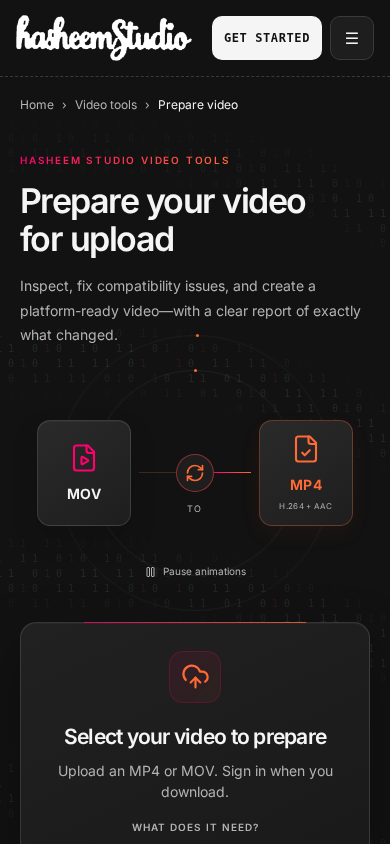
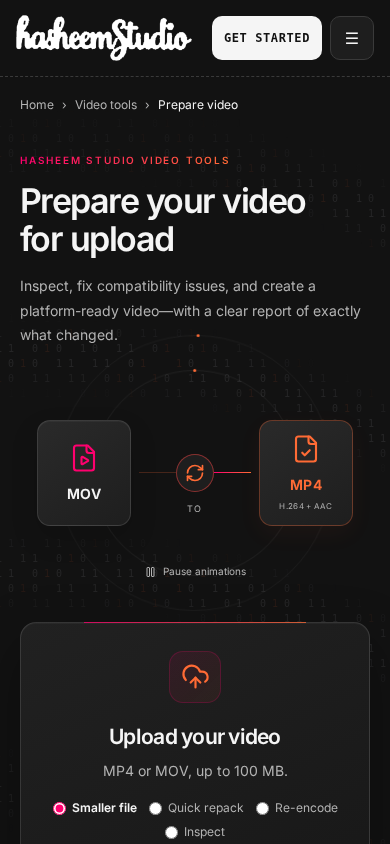
feat(web): simpler upload card, pause pill straddles card, orbiting light, two-tile result
Claude-Session: https://claude.ai/code/session_01KMRJAcnX8NKK61hskr7mn6

Changed region(s): [[0.1231, 0.8626, 0.8615, 1.0], [0.7692, 0.955, 0.8615, 0.9858]]

diff --git a/apps/web/src/components/ConversionHero.css b/apps/web/src/components/ConversionHero.css
@@ -68,7 +68,7 @@
 .hero-upload__resume-discard { text-decoration: underline; font-weight: 600; }
 
 /* Processing card — same surface/border/radius tokens as the idle card above. */
-.hero-upload__processing { text-align: left; }
+.hero-upload__processing { display: flex; flex-direction: column; text-align: left; }
 .hero-upload__file { display: flex; align-items: center; gap: 12px; }
 .hero-upload__file-icon { display: grid; place-items: center; width: 40px; height: 40px; flex-shrink: 0; border-radius: 10px; border: 1px solid rgb(255 0 110 / 20%); background: linear-gradient(135deg, rgb(255 0 110 / 9%), rgb(255 107 53 / 6%)); color: var(--hero-orange); }
 .hero-upload__file-meta { min-width: 0; }
@@ -81,7 +81,7 @@
 .hero-upload__log { margin-top: 14px; max-height: 108px; overflow-y: auto; padding: 10px 12px; border-radius: var(--radius-sm); border: 1px solid rgb(255 255 255 / 8%); background: #101010; font-family: ui-monospace, SFMono-Regular, Menlo, monospace; font-size: 11px; line-height: 1.7; text-align: left; color: rgb(255 255 255 / 62%); }
 .hero-upload__log-line { white-space: pre-wrap; word-break: break-word; }
 .hero-upload__log-marker { margin-right: 6px; color: var(--hero-orange); }
-.hero-upload__cancel { display: inline-flex; gap: 6px; align-items: center; justify-content: center; min-height: 40px; min-width: 120px; margin: 16px auto 0; padding: 0 18px; border-radius: 8px; border: 1px solid var(--color-border); font-size: 13px; font-weight: 600; color: var(--color-foreground); transition: background-color .15s; }
+.hero-upload__cancel { display: inline-flex; gap: 6px; align-items: center; justify-content: center; min-height: 40px; min-width: 120px; align-self: center; margin: 18px auto 0; padding: 0 18px; border-radius: 8px; border: 1px solid var(--color-border); font-size: 13px; font-weight: 600; color: var(--color-foreground); transition: background-color .15s; }
 .hero-upload__cancel:hover:not(:disabled) { background: var(--color-surface-2); }
 .hero-upload__cancel:disabled { opacity: .7; cursor: default; }
 .hero-upload__spin { animation: hs-spin 1s linear infinite; }
@@ -106,10 +106,11 @@
    centred directly above the card with real breathing room. ───────────────────────────────────────────── */
 .conversion-hero[data-focus] .conversion-hero__stage { grid-template-columns: minmax(0, 1fr); justify-items: center; gap: 6px; padding: 8px 0 30px; animation: hs-focus-in .45s ease-out both; }
 .conversion-hero[data-focus] .conversion-scene { height: 236px; }
-.conversion-hero[data-focus] .conversion-scene__pause { position: static; transform: none; margin: 14px auto 0; width: fit-content; padding: 6px 14px; border-radius: 999px; border: 1px solid rgb(255 255 255 / 12%); background: rgb(255 255 255 / 3%); }
+.conversion-hero[data-focus] .conversion-scene__pause { position: relative; left: auto; bottom: auto; z-index: 3; transform: none; margin: 10px auto 0; width: fit-content; min-height: 30px; padding: 6px 14px; border-radius: 999px; border: 1px solid rgb(255 255 255 / 14%); background: #1c1c1c; }
 .conversion-hero[data-focus] .conversion-scene { height: auto; display: flex; flex-direction: column; align-items: center; }
-.conversion-hero[data-focus] .conversion-scene__visual { position: relative; inset: auto; width: 100%; height: 236px; }
-.conversion-hero[data-focus] .hero-upload { margin-top: 0; }
+.conversion-hero[data-focus] .conversion-scene__visual { position: relative; inset: auto; width: 100%; height: 190px; }
+.conversion-hero[data-focus] .conversion-hero__stage { padding-bottom: 0; }
+.conversion-hero[data-focus] .hero-upload { margin-top: -15px; padding-top: 44px; }
 @keyframes hs-focus-in { from { opacity: .4; transform: translateY(-8px); } to { opacity: 1; transform: none; } }
 
 /* ── Stage-driven scene: the illustration reflects the real pipeline stage (data-phase). ─────────────── */
@@ -162,7 +163,8 @@
   .conversion-scene__ring--outer { width: 276px; height: 276px; }
   .conversion-scene__ring--inner { width: 206px; height: 206px; }
   .hero-upload { margin-top: -56px; padding: 28px 20px 22px; }
-  .conversion-hero[data-focus] .hero-upload { margin-top: 0; }
+  .conversion-hero[data-focus] .conversion-hero__stage { padding-bottom: 0; }
+.conversion-hero[data-focus] .hero-upload { margin-top: -15px; padding-top: 44px; }
   .conversion-hero[data-focus] .conversion-scene__visual { height: 218px; }
   .hero-upload h2 { font-size: 21px; }
   .conversion-hero { margin-bottom: 42px; }
@@ -182,3 +184,14 @@
   .conversion-hero[data-focus] .conversion-scene__pause { display: none; }
   .conversion-hero[data-focus] .conversion-hero__stage { animation: none; }
 }
+
+/* A small light that travels around the card while work is in progress. */
+@property --hs-angle { syntax: "<angle>"; inherits: false; initial-value: 0deg; }
+.hero-upload[data-busy]::after { content: ""; position: absolute; inset: -1px; border-radius: inherit; padding: 1.5px; pointer-events: none;
+  background: conic-gradient(from var(--hs-angle), transparent 0 84%, rgb(255 0 110 / 0%) 84%, #ff006e 94%, #ff8a4c 99%, transparent 100%);
+  -webkit-mask: linear-gradient(#000 0 0) content-box, linear-gradient(#000 0 0); -webkit-mask-composite: xor; mask-composite: exclude;
+  animation: hs-revolve 3.2s linear infinite; filter: drop-shadow(0 0 6px rgb(255 107 53 / 70%)); }
+@keyframes hs-revolve { to { --hs-angle: 360deg; } }
+.conversion-hero:has(.conversion-scene[data-paused="true"]) .hero-upload[data-busy]::after { animation-play-state: paused; }
+@media (prefers-reduced-motion: reduce) { .hero-upload[data-busy]::after { animation: none; --hs-angle: 40deg; } }
+.conversion-hero[data-focus] .conversion-hero__stage { z-index: 3; }

diff --git a/apps/web/src/components/ResultCard.tsx b/apps/web/src/components/ResultCard.tsx
@@ -1,11 +1,10 @@
-import { useEffect, useRef, useState, type ReactNode } from "react";
+import { useRef, useState, type ReactNode } from "react";
 import { Link } from "react-router-dom";
 import { motion, useReducedMotion } from "framer-motion";
-import { AlertTriangle, ArrowDownToLine, FileVideo, Loader2, RotateCcw, ShieldCheck, Sparkles, TrendingDown, Video } from "lucide-react";
+import { AlertTriangle, ArrowDownToLine, Clapperboard, FileVideo, Loader2, RotateCcw, ShieldCheck } from "lucide-react";
 import { DownloadUpgrade } from "./DownloadUpgrade";
 import { getSession } from "../lib/auth";
 import { requestDownload, DownloadError, type JobView } from "../lib/api";
-import { formatBytes } from "../hooks/useVideoUpload";
 import { formatOutputFileName } from "../lib/outputName";
 import "./ResultCard.css";
 
@@ -22,59 +21,23 @@ interface Tile {
   accent?: boolean;
 }
 
-function useCountUp(target: number, durationMs = 900): number {
-  const reduce = useReducedMotion();
-  const [value, setValue] = useState(reduce ? target : 0);
-  useEffect(() => {
-    if (reduce) { setValue(target); return; }
-    let raf = 0;
-    const start = performance.now();
-    const tick = (now: number) => {
-      const t = Math.min(1, (now - start) / durationMs);
-      setValue(target * (1 - Math.pow(1 - t, 3)));
-      if (t < 1) raf = requestAnimationFrame(tick);
-    };
-    raf = requestAnimationFrame(tick);
-    return () => cancelAnimationFrame(raf);
-  }, [target, durationMs, reduce]);
-  return value;
-}
-
-function SizeValue({ percent }: { percent: number }) {
-  const shown = useCountUp(percent);
-  return <>−{Math.round(shown)}%</>;
-}
-
 function buildTiles(job: JobView): Tile[] {
   const s = job.summary;
   if (!s) return [];
-  const inB = s.inputBytes, outB = s.outputBytes;
-  const reduction = s.reductionPercent;
-
-  const size: Tile =
-    reduction !== null && reduction >= 1 && inB !== null && outB !== null
-      ? { key: "size", label: "Smaller", value: <SizeValue percent={reduction} />, sub: `${formatBytes(inB)} → ${formatBytes(outB)}`, icon: <TrendingDown size={16} aria-hidden="true" />, accent: true }
-      : { key: "size", label: "File size", value: outB !== null ? formatBytes(outB) : "Ready", sub: reduction !== null && reduction > -1 ? "Original quality kept" : "Already compact", icon: <FileVideo size={16} aria-hidden="true" /> };
-
   const video = s.format.video, audio = s.format.audio;
-  const format: Tile = {
-    key: "format", label: "Format", value: "MP4",
-    sub: video ? `${video}${audio ? ` + ${audio}` : " · no audio"}` : "Universal video file",
-    icon: <Video size={16} aria-hidden="true" />,
-  };
 
   const playback: Tile = {
     key: "playback", label: "Playback",
     value: s.verified ? "Verified" : "Checked",
-    sub: s.verified ? "Plays cleanly, start to end" : "Review before posting",
+    sub: video ? `${video} · ${audio ?? "no audio"}` : s.verified ? "Plays start to end" : "Review before posting",
     icon: <ShieldCheck size={16} aria-hidden="true" />,
   };
 
-  const fourth: Tile = s.platformReady
-    ? { key: "ready", label: "Ready for", value: "Social upload", sub: s.underWhatsAppLimit ? "TikTok · Instagram · WhatsApp — fits WhatsApp's 16 MB" : "Built for TikTok, Instagram & WhatsApp specs", icon: <Sparkles size={16} aria-hidden="true" />, accent: true }
-    : { key: "mode", label: "Mode", value: job.recipe === "remux" ? "Repackaged" : job.recipe === "compat_encode" ? "Re-encoded" : "Processed", sub: job.recipe === "remux" ? "No re-encode, nothing lost" : "H.264 video, AAC audio", icon: <Sparkles size={16} aria-hidden="true" /> };
+  const second: Tile = s.platformReady
+    ? { key: "ready", label: "Ready for", value: "Social upload", sub: s.underWhatsAppLimit ? "TikTok · Instagram · WhatsApp" : "TikTok · Instagram", icon: <Clapperboard size={16} aria-hidden="true" />, accent: true }
+    : { key: "mode", label: "Mode", value: job.recipe === "remux" ? "Repackaged" : job.recipe === "compat_encode" ? "Re-encoded" : "Processed", sub: job.recipe === "remux" ? "Nothing lost" : "H.264 · AAC", icon: <Clapperboard size={16} aria-hidden="true" /> };
 
-  return [size, format, playback, fourth];
+  return [playback, second];
 }
 
 export function ResultCard({ jobId, job, onReset, standalone = false }: { jobId: string; job: JobView; onReset?: () => void; standalone?: boolean }) {

diff --git a/apps/web/src/components/ConversionHero.tsx b/apps/web/src/components/ConversionHero.tsx
@@ -32,6 +32,8 @@ function scenePhase(stage: UploadStage): string {
   return "idle";
 }
 
+const RECIPE_SHORT: Record<string, string> = { platform_optimize: "Smaller file", remux: "Quick repack", compat_encode: "Re-encode", inspect: "Inspect" };
+
 const STAGE_LABEL: Record<UploadStage, string> = {
   idle: "",
   uploading: "Uploading…",
@@ -91,15 +93,15 @@ export function ConversionHero() {
     <div className="conversion-hero" data-focus={focus || undefined}>
       <HeroBackdrop paused={paused} />
       <div className="conversion-hero__stage">
-        {!focus && (
         <div className="conversion-hero__copy">
           <p className="conversion-hero__eyebrow">Hasheem Studio video tools</p>
+          {!focus && (<>
           <h1>Prepare your video<br className="conversion-hero__title-break" /> for upload</h1>
           <p className="conversion-hero__description">
             Inspect, fix compatibility issues, and create a platform-ready video—with a clear report of exactly what changed.
           </p>
+          </>)}
         </div>
-        )}
 
         <div className="conversion-scene" data-paused={paused} data-phase={phase} style={{ ["--p" as string]: uploadPercent / 100 }}>
           <div className="conversion-scene__visual" role="img" aria-label="Illustration: prepare a MOV or MP4 video as a compatible MP4 with H.264 video and AAC audio.">
@@ -131,6 +133,7 @@ export function ConversionHero() {
       <div
         className="hero-upload"
         data-drag-over={canPick && dragOver || undefined}
+        data-busy={active || undefined}
         onDragOver={canPick ? (e) => { e.preventDefault(); setDragOver(true); } : undefined}
         onDragLeave={canPick ? () => setDragOver(false) : undefined}
         onDrop={canPick ? onDrop : undefined}
@@ -157,11 +160,11 @@ export function ConversionHero() {
               transition={{ duration: 0.22 }}
             >
               <span className="hero-upload__badge"><UploadCloud className="hero-upload__icon" size={29} strokeWidth={1.8} aria-hidden="true" /></span>
-              <h2>Select your video to prepare</h2>
-              <p>Upload an MP4 or MOV. Sign in when you download.</p>
+              <h2>Upload your video</h2>
+              <p>MP4 or MOV, up to 100 MB.</p>
 
               <fieldset className="hero-upload__recipes">
-                <legend className="hero-upload__recipes-legend">What does it need?</legend>
+                <legend className="sr-only">Processing mode</legend>
                 {RECIPE_OPTIONS.map((r) => (
                   <label key={r.value} title={r.hint} className="hero-upload__recipe">
                     <input
@@ -171,7 +174,7 @@ export function ConversionHero() {
                       checked={recipe === r.value}
                       onChange={() => setRecipe(r.value)}
                     />
-                    {r.label}
+                    {RECIPE_SHORT[r.value] ?? r.label}
                   </label>
                 ))}
               </fieldset>
@@ -179,7 +182,7 @@ export function ConversionHero() {
               <button type="button" className="hero-upload__button" onClick={() => inputRef.current?.click()}>
                 <UploadCloud size={17} aria-hidden="true" />Choose video
               </button>
-              <p className="hero-upload__dropzone-hint">or drop a file anywhere in this card</p>
+              <p className="hero-upload__dropzone-hint">or drop it here</p>
 
               {error && <p role="alert" className="hero-upload__error">{error}</p>}
               {resumeNotice && (
@@ -191,7 +194,7 @@ export function ConversionHero() {
                 </p>
               )}
 
-              <small>1 free video/day · 100 MB · 2 minutes · 1080p60</small>
+              <small>Free: 1 video a day · sign in to download</small>
             </motion.div>
           ) : (
             <motion.div

diff --git a/apps/web/src/components/ResultCard.css b/apps/web/src/components/ResultCard.css
@@ -12,14 +12,14 @@
 .result-card__file svg { flex-shrink: 0; color: #ff8a4c; }
 .result-card__file span { overflow: hidden; text-overflow: ellipsis; white-space: nowrap; }
 
-.result-card__tiles { display: grid; grid-template-columns: repeat(2, minmax(0, 1fr)); gap: 10px; margin-top: 22px; text-align: left; }
+.result-card__tiles { display: grid; grid-template-columns: repeat(2, minmax(0, 1fr)); align-items: stretch; gap: 10px; margin-top: 22px; text-align: left; }
 .result-card__tile { position: relative; overflow: hidden; display: flex; flex-direction: column; gap: 2px; min-width: 0; padding: 14px 15px 13px; border-radius: 12px; border: 1px solid rgb(255 255 255 / 9%); background: rgb(255 255 255 / 3.5%); }
 .result-card__tile::before { content: ""; position: absolute; left: 0; top: 0; height: 2px; width: 100%; background: var(--gradient-primary); opacity: .0; }
 .result-card__tile.is-accent { border-color: rgb(255 107 53 / 28%); background: linear-gradient(140deg, rgb(255 0 110 / 8%), rgb(255 107 53 / 5%)); }
 .result-card__tile.is-accent::before { opacity: .85; }
 .result-card__tile-label { display: flex; align-items: center; gap: 6px; font-size: 10px; font-weight: 600; letter-spacing: .12em; text-transform: uppercase; color: var(--color-foreground-muted); }
 .result-card__tile-label svg { color: #ff8a4c; }
-.result-card__tile strong { margin-top: 6px; font-size: 22px; font-weight: 650; letter-spacing: -.03em; line-height: 1.15; overflow-wrap: anywhere; }
+.result-card__tile strong { margin-top: 8px; margin-bottom: 4px; font-size: 22px; font-weight: 650; letter-spacing: -.03em; line-height: 1.15; overflow-wrap: anywhere; }
 .result-card__tile.is-accent strong { color: #ff8a4c; }
 .result-card__tile small { font-size: 12px; line-height: 1.45; color: var(--color-foreground-muted); }
 
@@ -63,3 +63,5 @@
   .result-card__primary::after { display: none; }
   .result-card__spin { animation: none; }
 }
+.hero-upload .result-card__tile small { margin: 0; padding: 0; border: 0; font-size: 12px; }
+.hero-upload .result-card__foot small { margin: 0; padding: 0; border: 0; }
